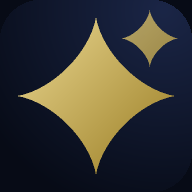
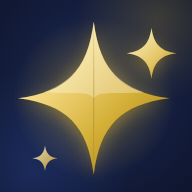
style: ícone premium novo (estrela dourada lapidada, fundo navy com brilhos) + sw v19
Claude-Session: https://claude.ai/code/session_01URJUB3E7qbi9FuMCRBNJiw

diff --git a/public/sw.js b/public/sw.js
@@ -1,5 +1,5 @@
 /* NEW STAR — service worker: app shell cache-first (offline 100%) */
-const VERSAO = 'newstar-v18';
+const VERSAO = 'newstar-v19';
 const SHELL = [
   './', './index.html', './manifest.webmanifest', './icon.svg',
   './icon-192.png', './icon-512.png',
